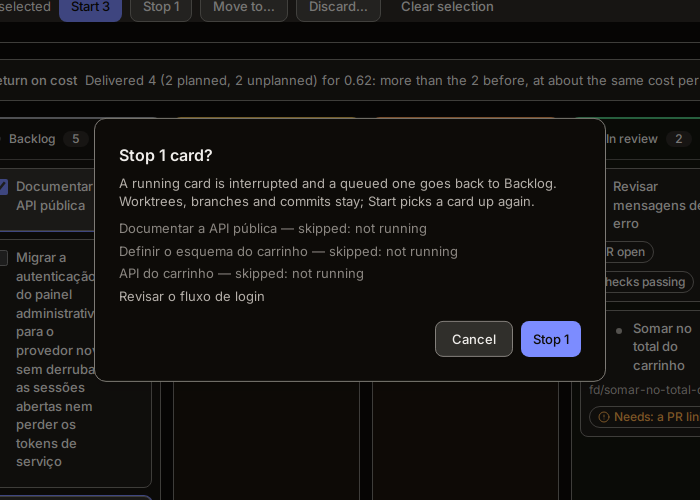
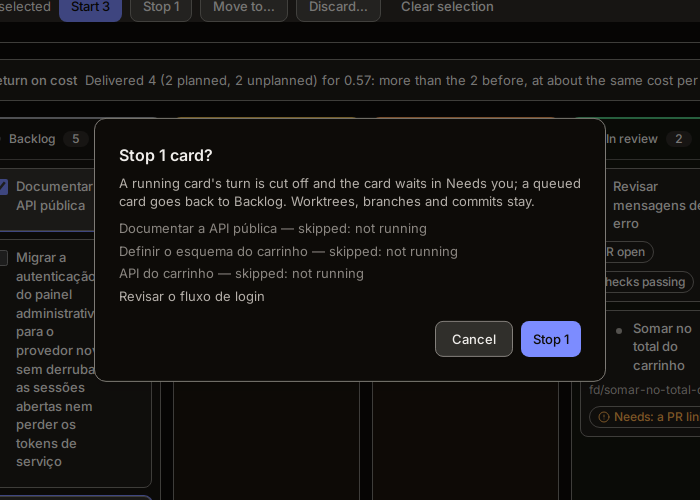
docs(board-multi): one scope for s and m with a selection, where a stopped card lands, and one-or-many forms
From #1357's review: an existing key name, Stop's text against stopCard (Needs you, not Backlog),
cards that succeed leave the selection, the sr-only key to delete, and the full print matrix.

Refs: #1354

Claude-Session: https://claude.ai/code/session_01Q32XHuppPrS9LQ8bSSQ3KB

Changed region(s): [[0.15, 0.36, 0.84, 0.42], [0.51, 0.15, 1.0, 0.18]]

diff --git a/docs/decisions/2026-11-09-board-bulk-actions.md b/docs/decisions/2026-11-09-board-bulk-actions.md
@@ -22,11 +22,13 @@ chord stay as they are.
 |---|---|
 | `x` | Toggles the focused card in the selection. A card just selected becomes the anchor of a range. |
 | Shift+↑ ↓ ← → | Moves the focus as the arrow does, and selects from the anchor to the new card in the board's order (`rangeSelection`). With no anchor, the card left becomes the anchor. |
-| `s` | Focused card in the selection: opens **Start N?** for the selection. Otherwise it starts the focused card, as today. |
-| `m` | Focused card in the selection: opens the bar's **Move to…** menu. Otherwise it opens the card's menu, as today. |
-| `Esc` | An open menu or dialog closes first. Then, with a selection, it clears it and the focus stays on the card. With none, nothing happens. |
+| `s` | With a selection: opens **Start N?** for the selection, wherever the focus is. With none, it starts the focused card, as today. |
+| `m` | With a selection: opens the bar's **Move to…** menu. With none, it opens the card's menu, as today. |
+| `Esc` | An open menu or dialog closes first. Then, with a selection, it clears it and the focus stays on the card. With none, the board does nothing and Esc goes on as today (a split view closes). |
 
-- **One card selected.** `s` and `m` act on that one card, the same as without a selection.
+- **One scope per key.** While a selection exists, `s` and `m` always act on the selection, never on a
+  card outside it. A stray `s` on an unselected card then opens the confirm, rather than starting a
+  card the person did not pick. To act on one card, Esc first. One card selected is a selection of one.
 - **Esc must stop the event.** It must stop it only when it cleared a selection. `split-view.tsx` closes
   the split on any Escape from inside a pane and does not check `defaultPrevented`. Today the bar's Esc
   also reaches it. Slice 2 stops propagation in both places.
@@ -44,7 +46,8 @@ chord stay as they are.
   - The box is 16 px inside a 24 px target (`hit-control`): axe's target-size failed #1349 on bare radios.
   - It is not a Tab stop (`tabIndex -1`). `x` is its keyboard path, so each column stays one Tab stop.
   - Its name is "Select {title}" ("Selecionar {title}"). It replaces the `sr-only` "selected" span, so
-    the state is said once, by the checkbox.
+    the state is said once, by the checkbox. Slice 2 deletes the `board.selectedCard` key ("selected"),
+    in en and pt-BR, with the span.
   - Clicking it toggles the card. A plain click on the card still opens it.
 - **Touch, or no Ctrl key.** The card's menu (**Select card**) starts a selection. From then on every
   card shows its check.
@@ -94,10 +97,12 @@ confirm, only the column contract's question (#78).
 - **Stop N.** Stopping one card asks nothing today. Stopping several ends several sessions at once, so
   it asks.
   - **Title:** "Stop 1 card?"
-  - **Body:** "A running card is interrupted and a queued one goes back to Backlog. Worktrees, branches
-    and commits stay; Start picks a card up again." This is what `stopCard` does on the host.
+  - **Body:** "A running card's turn is cut off and the card waits in Needs you; a queued card goes back
+    to Backlog. Worktrees, branches and commits stay." This is what `stopCard` does on the host: an
+    interrupted turn sends the card to Needs you (`board.ts`, `stopCard`).
   - **List:** the selection, the cards that aren't running dimmed with "skipped: not running".
-  - **Button:** **Stop 1**. It isn't marked destructive, because nothing is lost.
+  - **Button:** **Stop 1**. It isn't marked destructive: the turn's unfinished work is cut off, but the
+    worktrees, branches and commits stay.
 
   ![Stop, dark (mock)](../images/decisions/1354-confirm-stop-dark.png)
   ![Stop, light (mock)](../images/decisions/1354-confirm-stop-light.png)
@@ -121,7 +126,10 @@ The board is one host's (`BoardView` takes one `hostId`), so the confirm names o
   do today: `card.start` and `card.stop`. Start goes through the board's `maxParallelRuns` queue and,
   once #1343 lands, its memory hold.
 - **Refusals.** The host's refusals are named afterwards in the bar's notice, the same way `board.stayed`
-  does it. A refused card stays selected for another try.
+  does it. A refused card stays selected for another try; a card that started or stopped leaves the
+  selection.
+- **Cut short.** The batch runs from the app. If the app closes midway, the cards done so far are done,
+  and the rest are untouched and stay as they were. Nothing is half-applied to one card.
 - **Busy.** While a batch runs, the bar's buttons are off (`busy`), as today.
 
 ## New strings (en / pt-BR)
@@ -132,25 +140,29 @@ The board is one host's (`BoardView` takes one `hostId`), so the confirm names o
 | `board.stopSelected` | Stop {n} | Parar {n} |
 | `board.noneCanStart` | None of the selected cards can start | Nenhum card selecionado pode iniciar |
 | `board.noneRunning` | None of the selected cards is running | Nenhum card selecionado está rodando |
-| `board.selectCard` | Select {title} | Selecionar {title} |
+| `board.selectCardNamed` | Select {title} | Selecionar {title} |
 | `board.otherColumnOne` | 1 in another column | 1 em outra coluna |
 | `board.otherColumns` | {n} in other columns | {n} em outras colunas |
 | `board.moreSelected` | More actions for the selection | Mais ações da seleção |
 | `board.clearShort` | Clear | Limpar |
 | `board.startTitleOne` / `board.startTitle` | Start 1 card? / Start {n} cards? | Iniciar 1 card? / Iniciar {n} cards? |
-| `board.startSplit` | {now} start now and {later} wait in the board's queue (at most {max} at once). | {now} iniciam agora e {later} esperam na fila do board (no máximo {max} ao mesmo tempo). |
+| `board.startNowOne` / `board.startNow` | 1 starts now / {n} start now | 1 inicia agora / {n} iniciam agora |
+| `board.waitOne` / `board.wait` | 1 waits in the board's queue / {n} wait in the board's queue | 1 espera na fila do board / {n} esperam na fila do board |
+| `board.startSplit` | {started} and {waiting} (at most {max} at once). | {started} e {waiting} (no máximo {max} ao mesmo tempo). |
+| `board.startAllNow` | All of them start now. | Todos iniciam agora. |
 | `board.startQueue` | They join the board's queue. | Eles entram na fila do board. |
 | `board.startQuota` | {host}: {percent}% of the 5-hour window used, resets in {reset}. | {host}: {percent}% da janela de 5 horas usados, renova em {reset}. |
 | `board.startBudgetHold` | A budget holds new cards on {host}: they wait until it allows. | Um orçamento segura cards novos em {host}: eles esperam até ele liberar. |
 | `board.startMemoryHold` | {host} is short of memory: new runs wait until it frees up. | {host} está com pouca memória: as execuções novas esperam ela liberar. |
 | `board.skipped` | skipped: {reason} | fica de fora: {reason} |
 | `board.stopTitleOne` / `board.stopTitle` | Stop 1 card? / Stop {n} cards? | Parar 1 card? / Parar {n} cards? |
-| `board.stopBody` | A running card is interrupted and a queued one goes back to Backlog. Worktrees, branches and commits stay; Start picks a card up again. | Um card rodando é interrompido e um card na fila volta para o Backlog. Worktrees, branches e commits ficam; Iniciar retoma o card. |
+| `board.stopBody` | A running card's turn is cut off and the card waits in Needs you; a queued card goes back to Backlog. Worktrees, branches and commits stay. | O turno de um card rodando é interrompido e o card espera em Esperando você; um card na fila volta para o Backlog. Worktrees, branches e commits ficam. |
 | `board.notRunning` | not running | não está rodando |
 | `board.keysHint` (new text) | Arrows move between the cards, Enter opens one, S starts it, M shows its actions, X selects it and Shift with an arrow selects a range. Esc clears the selection. | As setas passam de um card a outro, Enter abre, S inicia, M mostra as ações, X seleciona e Shift com uma seta seleciona um trecho. Esc limpa a seleção. |
 
-`board.startSplit` takes counts from 0 to N. When `{now}` is 0, slice 2 uses `board.startQueue`
-instead.
+Which line the Start confirm shows: with nothing left to wait, `board.startAllNow`; with nothing starting
+now, `board.startQueue`; otherwise `board.startSplit`, built from the one-or-many forms of
+`board.startNow` and `board.wait`.
 
 ## The mock prints
 
@@ -160,7 +172,8 @@ made with Ctrl-click, with slice 2's controls injected into the page. The confir
 
 - **Stand-ins.** The Pi's Chromium 114 paints no Tailwind ring, so the selected cards' `ring-1 ring-ring`
   and the focused title's ring are drawn with an inline box-shadow and outline.
-- **The script** is not in the repository: it is a one-off.
+- **The script** is not in the repository: it is a one-off, and these PNGs are a design, not evidence
+  of a built screen. Slice 2 replaces them with real prints from `demo:shots` and deletes these files.
 
 ## Out of scope
 
@@ -173,4 +186,5 @@ made with Ctrl-click, with slice 2's controls injected into the page. The confir
 - **Unit tests** of `boardKey` for `x`, Shift+arrows, and `s` and `m` with a selection.
 - **A journey:** keyboard only, select 3 cards with `x` and Shift+↓, start them, and see the confirm's
   count and quota.
-- **Prints** of the bar and both confirms at 1280/640/390, with axe and the narrow guard.
+- **Prints** of the bar, the Start confirm and the Stop confirm, each at 1280/640/390, in both themes
+  and both languages (the `demo:shots` matrix), with axe and the narrow guard.
